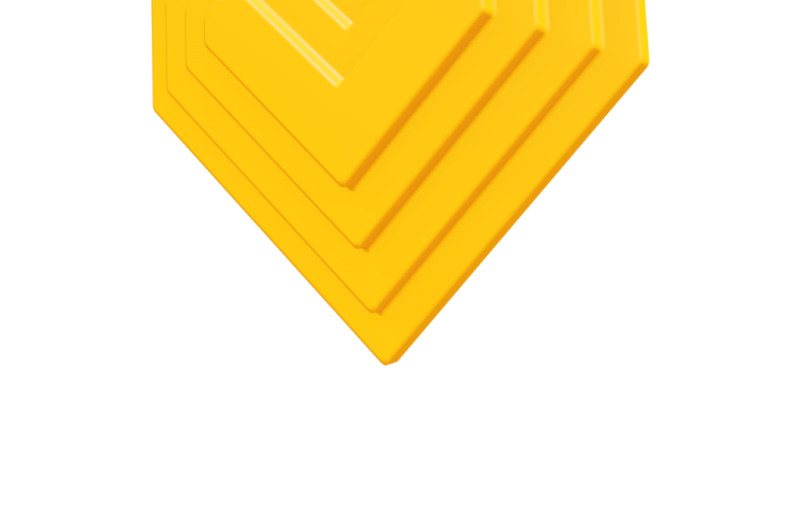
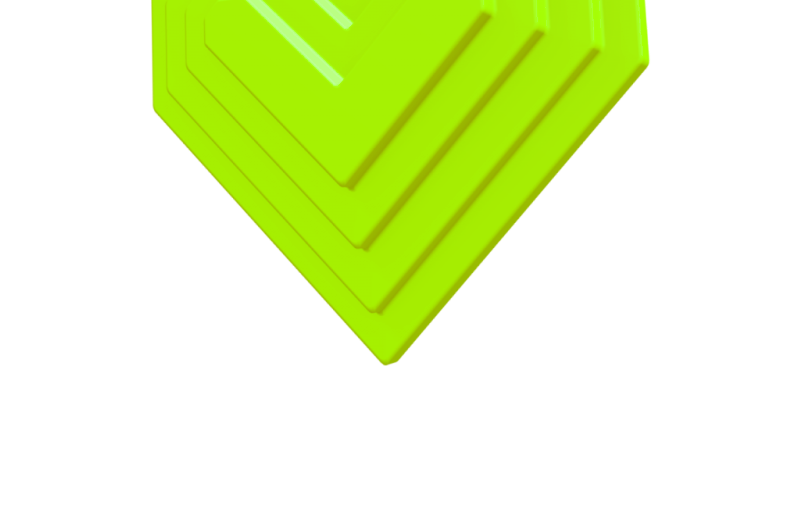
ui changes

Changed region(s): [[0.1873, 0.0, 0.8115, 0.7036]]

diff --git a/src/components/aboutCompany/AboutCompanyBanner.tsx b/src/components/aboutCompany/AboutCompanyBanner.tsx
@@ -6,7 +6,7 @@ import Link from "next/link";
 
 const AboutCompanyBanner = () => {
   return (
-    <div className="bg-amber-300 h-[600px] pt-24 relative">
+    <div className="bg-lime-300 h-[600px] pt-24 relative">
       <div className="px-4 lg:px-0 lg:container mx-auto text-slate-800 flex flex-col justify-center h-full">
         <div>
           <p className="text-3xl lg:text-5xl font-bold" data-aos="fade-up">

diff --git a/src/components/aboutCompany/AboutWorkWithUs.tsx b/src/components/aboutCompany/AboutWorkWithUs.tsx
@@ -37,7 +37,7 @@ const accordionItems = [
 
 const AboutWorkWithUs = () => {
   return (
-    <div className="bg-amber-300 py-12 text-slate-800">
+    <div className="bg-lime-500 py-12 text-slate-800">
       <div className="px-4 lg:px-0 lg:container mx-auto">
         <PageHeaderText label="Why work with us" className="text-slate-800" />
         <Accordion type="single" collapsible className="w-full">
